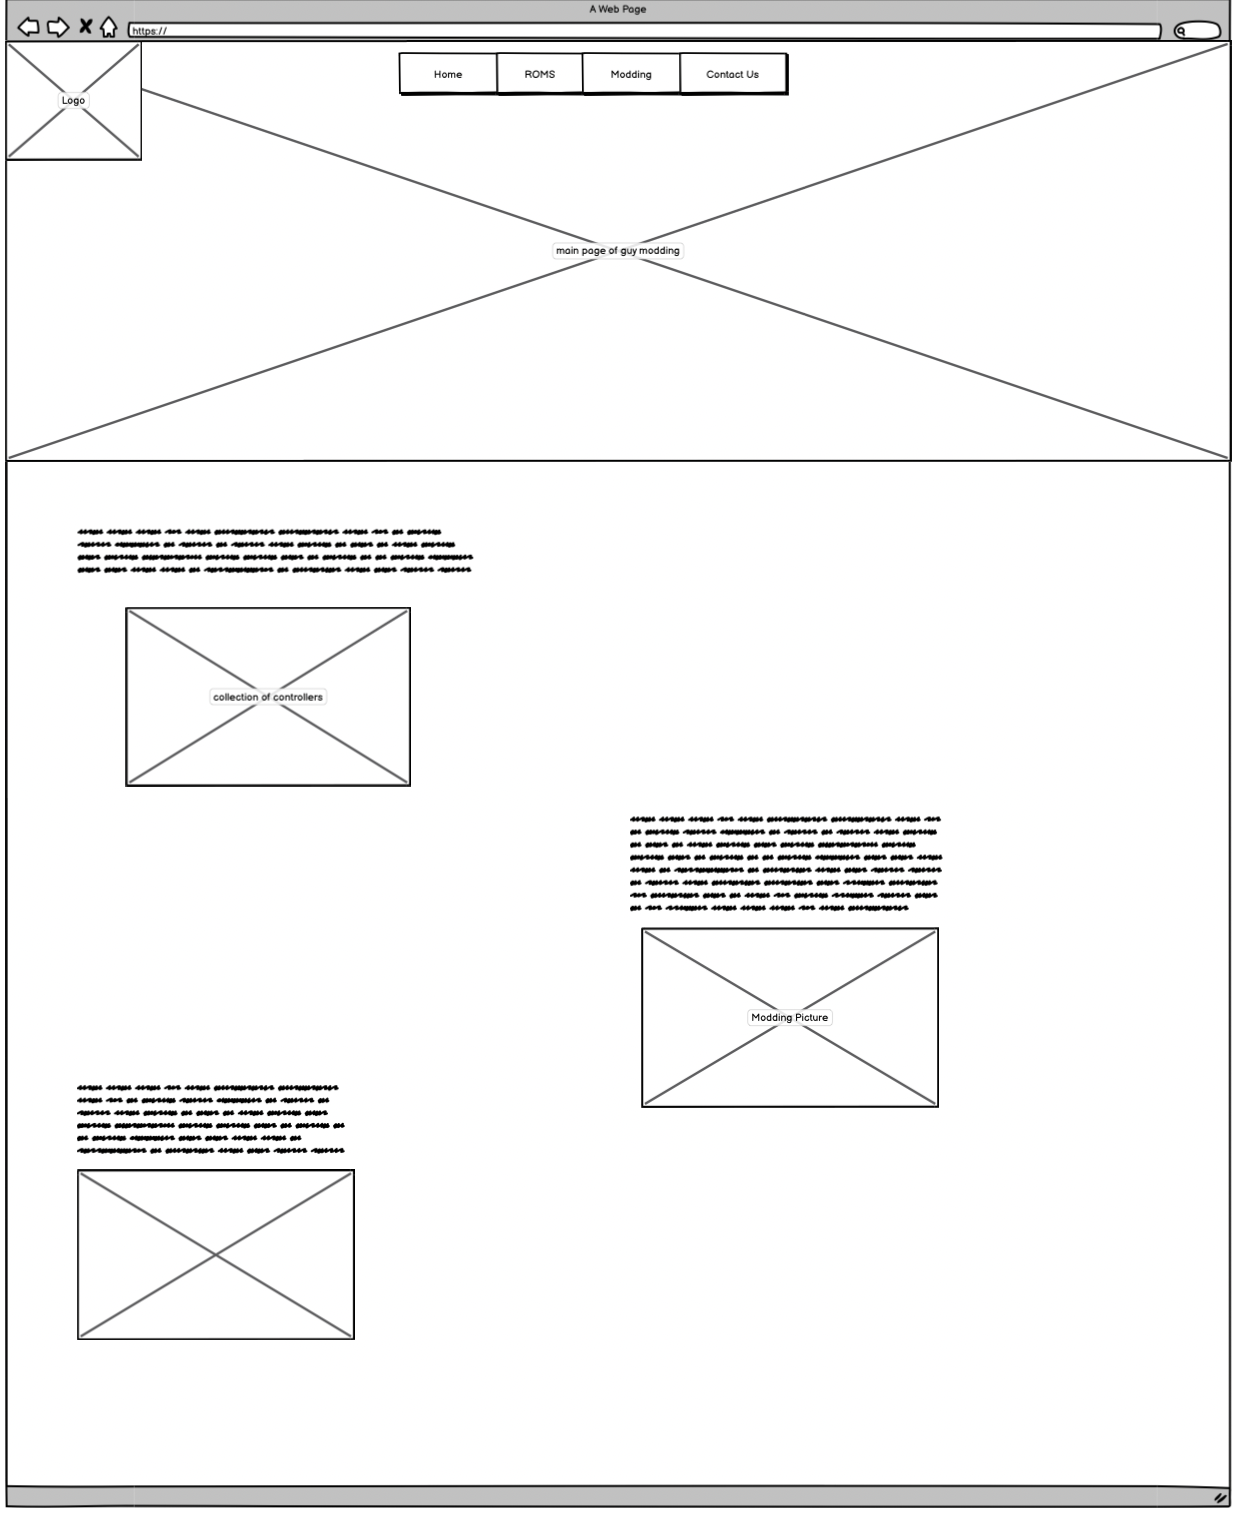
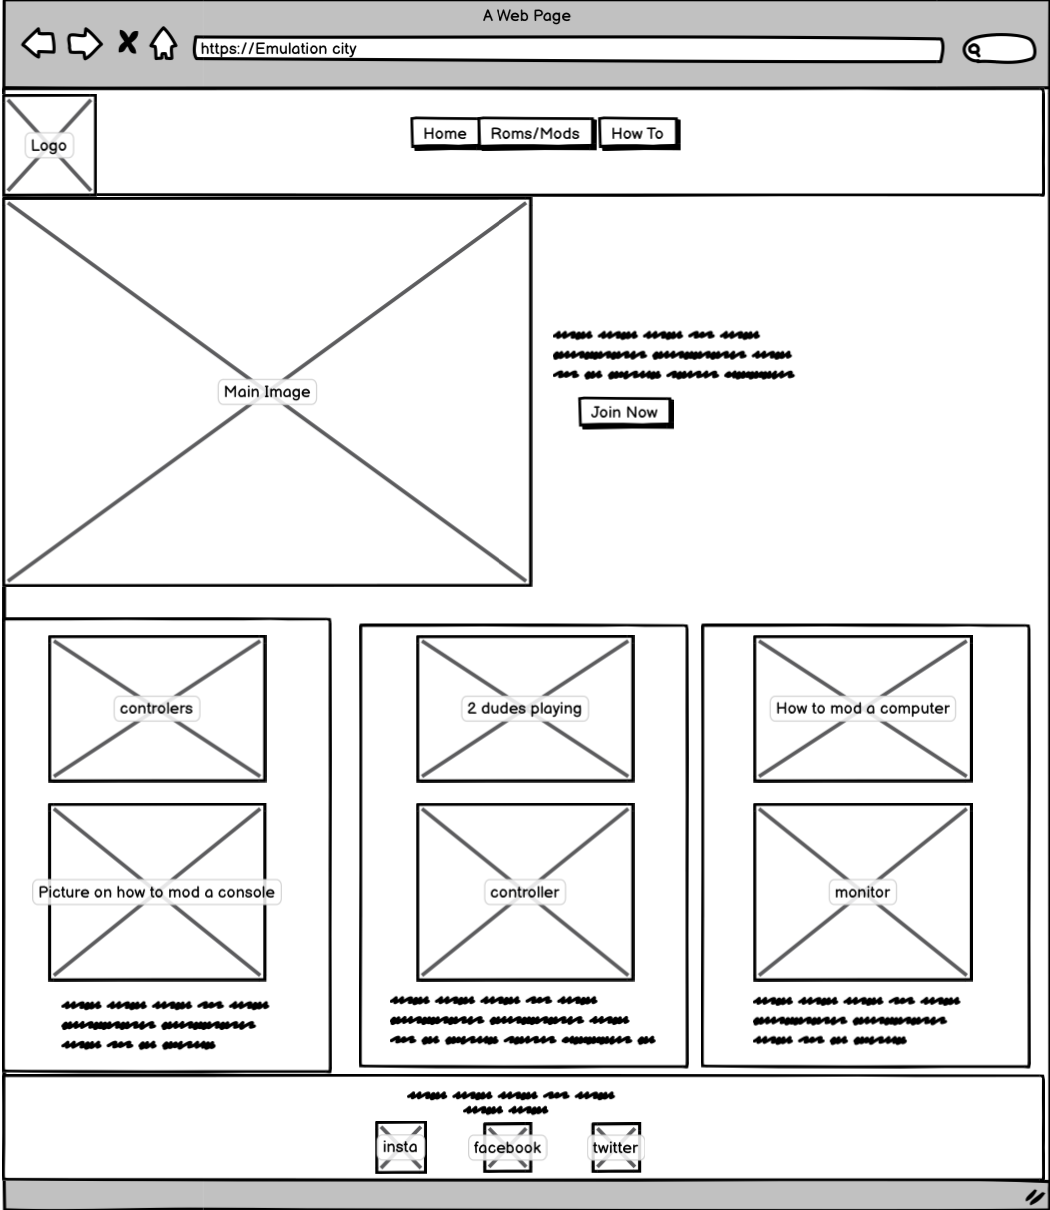
finished homepage and updated wireframe on emulation city

diff --git a/emulationcity/styles/mainpage.css b/emulationcity/styles/mainpage.css
@@ -1,0 +1,170 @@
+/* Importing the Press Start 2P font */
+@import url('https://fonts.googleapis.com/css2?family=Press+Start+2P&display=swap');
+
+/* General Reset */
+* {
+    margin: 0;
+    padding: 0;
+    box-sizing: border-box;
+}
+
+body {
+    font-family: 'Press Start 2P', cursive;
+    line-height: 1.6;
+    color: #495057; /* Text color */
+    background-color: #f8f9fa; /* Background color */
+    padding: 0 10px;
+}
+
+/* Header Section */
+header {
+    display: flex;
+    align-items: center; /* Align vertically */
+    justify-content: space-between; /* Space between logo and nav */
+    background-color: #343a40; /* Dark header background */
+    color: #f8f9fa; /* Light text */
+    padding: 10px 20px;
+    position: relative;
+}
+
+#logo_link {
+    flex-shrink: 0; /* Prevent logo from shrinking */
+}
+
+#logo_link img {
+    width: 80px; /* Adjusted logo size for better layout */
+    height: auto;
+}
+
+nav {
+    display: flex;
+    justify-content: center; /* Center navigation links horizontally */
+    gap: 20px; /* Add space between the links */
+    width: 100%; /* Ensure it spans the full width of the header */
+    position: relative; /* Allow proper centering */
+}
+nav a {
+    text-decoration: none;
+    color: #dee2e6; /* Lighter link color */
+    font-size: 0.8rem;
+}
+
+nav a:hover {
+    color: #adb5bd; /* Slightly lighter hover */
+}
+
+/* Hero Section */
+#hero {
+    display: flex;
+    justify-content: space-between;
+    align-items: center;
+    margin: 20px 0;
+    padding: 20px;
+    background-color: #e9ecef; /* Light gray */
+    border-radius: 8px;
+    box-shadow: 0 2px 5px rgba(0, 0, 0, 0.1);
+}
+
+#hero-box img {
+    max-width: 100%;
+    height: auto;
+    border-radius: 8px;
+}
+
+#hero-msg {
+    text-align: left;
+    padding-left: 20px;
+}
+
+#hero-msg h1 {
+    font-size: 1.8em;
+    color: #212529; /* Darker text */
+}
+
+#hero-msg h4 {
+    font-size: 0.9em;
+    color: #6c757d; /* Subtle gray */
+    margin: 10px 0;
+}
+
+.button-box a {
+    display: inline-block;
+    padding: 10px 20px;
+    background-color: #495057; /* Button background */
+    color: #f8f9fa; /* Button text */
+    text-decoration: none;
+    border-radius: 5px;
+    margin-top: 10px;
+    font-weight: bold;
+    font-size: 0.8rem;
+}
+
+.button-box a:hover {
+    background-color: #343a40; /* Slightly darker button */
+}
+
+/* Main Content Section */
+main.home-grid {
+    display: grid;
+    grid-template-columns: repeat(auto-fit, minmax(300px, 1fr));
+    gap: 20px;
+    margin: 20px 0;
+}
+
+main.home-grid section {
+    background-color: #dee2e6; /* Section background */
+    border: 1px solid #ced4da; /* Subtle border */
+    border-radius: 8px;
+    text-align: center;
+    padding: 10px;
+    box-shadow: 0 2px 5px rgba(0, 0, 0, 0.1);
+}
+
+main.home-grid section img {
+    width: 100%;
+    height: auto;
+    border-radius: 8px;
+    margin-bottom: 10px;
+}
+
+main.home-grid h2 {
+    font-size: 1em;
+    color: #212529; /* Dark text */
+    margin-top: 10px;
+}
+
+/* Footer Section */
+footer {
+    text-align: center;
+    padding: 20px;
+    background-color: #343a40; /* Dark footer background */
+    color: #f8f9fa; /* Light text */
+    margin-top: 20px;
+}
+
+footer a {
+    text-decoration: none;
+    color: #adb5bd; /* Subtle link color */
+    font-size: 0.8rem;
+}
+
+footer a:hover {
+    text-decoration: underline;
+    color: #dee2e6; /* Slightly brighter hover effect */
+}
+
+footer .social {
+    margin-top: 10px;
+}
+
+footer .social a img {
+    width: 30px;
+    margin: 0 5px;
+    vertical-align: middle;
+}
+
+/* Additional Adjustments */
+section img.icon {
+    width: 50px; /* Icon size for better alignment */
+    margin-top: 10px;
+}

diff --git a/emulationcity/main-page.html b/emulationcity/main-page.html
@@ -3,7 +3,7 @@
 <head>
     <meta charset="UTF-8">
     <meta name="viewport" content="width=device-width, initial-scale=1.0">
-    <link rel="stylesheet" href="styles/style.css">
+    <link rel="stylesheet" href="styles/mainpage.css">
     <title></title>
 </head>
 <body>
@@ -26,7 +26,7 @@
             <h1 class="home-title">Take Back Your Childhood</h1>
             <h4>reconnect with Emulation City</h4>
             <div class='button-box'>
-                <a class='book' href="contactus.html">Download Now</a>
+                <a class='book' href="#">Begin Now</a>
             </div>
         </section>
     </div>
@@ -34,16 +34,17 @@
         <section class="rivers-card">
             <img class="controler-img" src="images/controlers.jpg" alt="video game controlers">
             <img class="icon" src="images/easypeasy.png" alt="Anyone can do it">
-            <h2>Anyone can do it!</h2>
+            <h2>If you're a tech nerd this site is for you</h2>
         </section>
         <section class="camping-card">
             <img class="card-img" src="images/relaxedgaming.png" alt="money free">
             <img class="icon" src="images/controller_icon.png" alt="controller icon">
-            <h2>Game without worry of money</h2>
+            <h2>With our ease of access to mods, you'll never have to worry about prices again!</h2>
         </section>
         <section class="rapids-card">
             <img class="card-img" src="images/coding.png" alt="Code">
             <img class="icon" src="images/computer_icon.png" alt="computer icon">
+            <h2>Learn how to Mod your Console and Computer!</h2>
         </section>
     
     </main>
